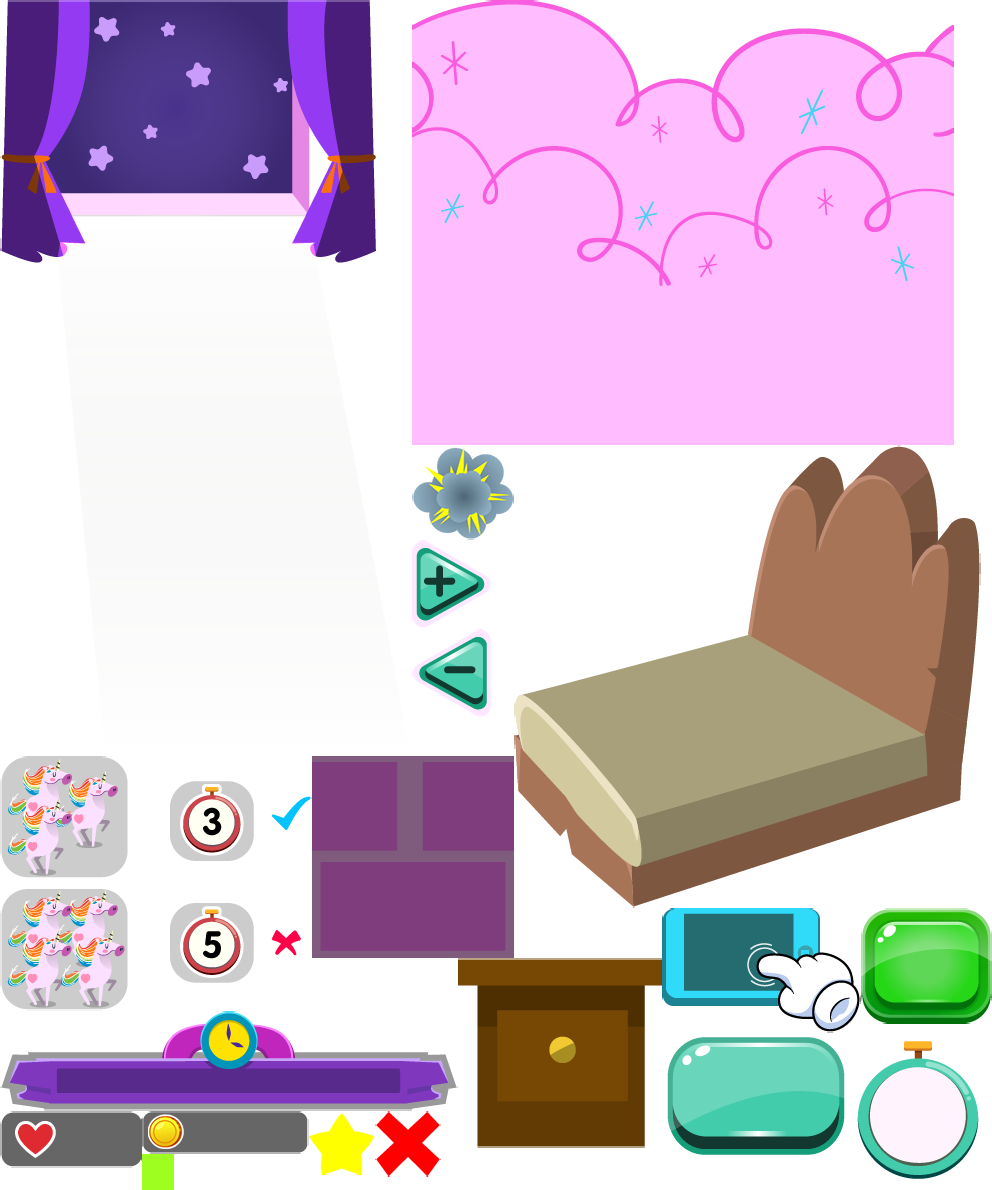
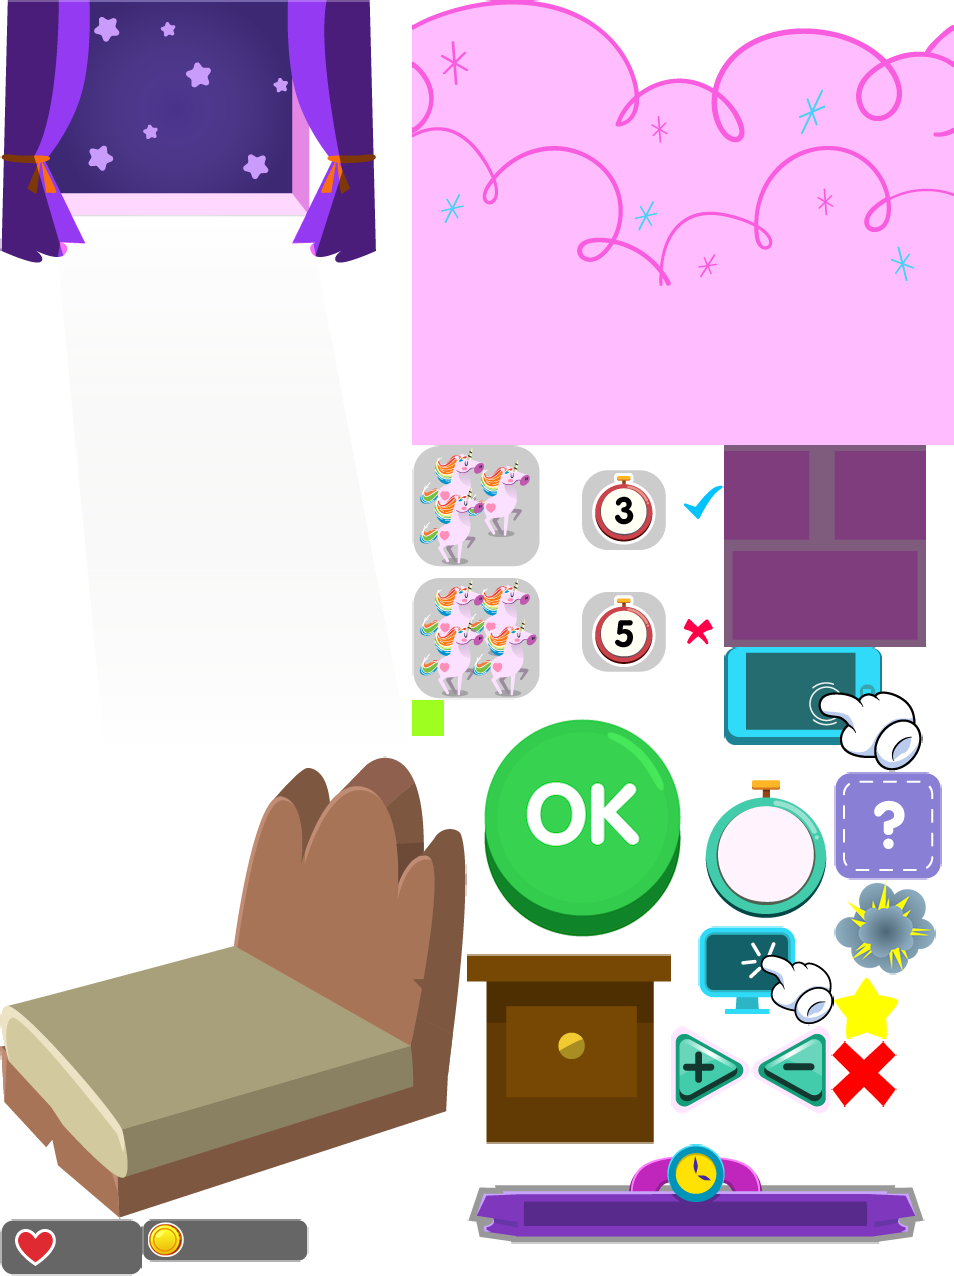
uniDream ok button

diff --git a/newStructure/minigames/uniDream/js/scenes/uni.js b/newStructure/minigames/uniDream/js/scenes/uni.js
@@ -828,14 +828,10 @@ var uni = function(){
 		buttonImg.events.onInputDown.add(checkCorrect)
 		buttonImg.anchor.setTo(0.5, 0.5)
 		button.alpha = 0
-		buttonImg.scale.setTo(0.8, 0.8)
+		buttonImg.scale.setTo(0.7, 0.7)
 		dreamGroup.button = buttonImg
 
 		var fontStyle2 = {font: "48px VAGRounded", fontWeight: "bold", fill: "#ffffff", align: "center"}
-		var readyText = new Phaser.Text(game, 0, -5, "OK", fontStyle2)
-		readyText.anchor.setTo(0.5, 0.5)
-		readyText.setShadow(3, 3, 'rgba(0,0,0,0.5)', 0);
-		button.add(readyText)
 
 		var minButton = button.create(0,0,"atlas.uni","menos")
 		minButton.anchor.setTo(0.5, 0.5)
